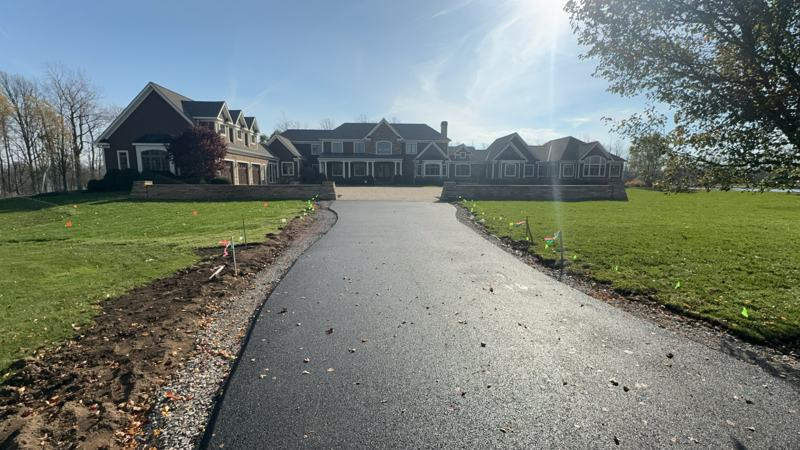
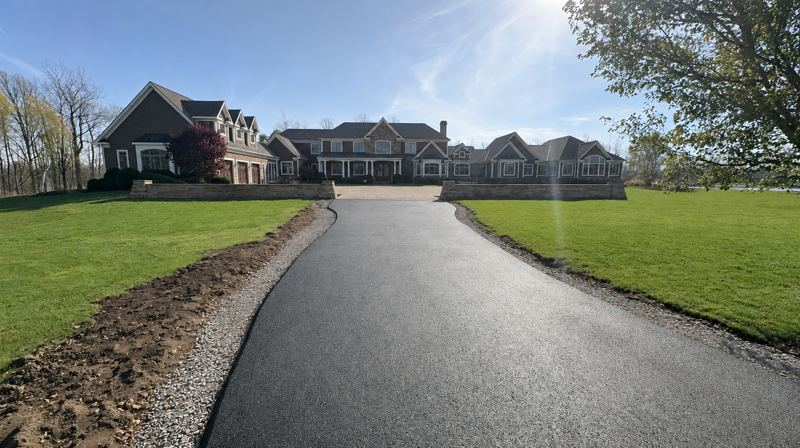
Hero: light cleanup of estate drive photo (stakes, flags, leaves removed)
Claude-Session: https://claude.ai/code/session_018FiD58pTLoVnvZhGJEy8fu

diff --git a/public/index.html b/public/index.html
@@ -106,7 +106,7 @@
     </ul>
   </div>
   <figure class="hero__photo">
-    <img src="/img/work/estate-drive.jpg" alt="Freshly paved blacktop driveway leading up to a large custom estate home" width="1800" height="1013" fetchpriority="high">
+    <img src="/img/work/estate-drive.jpg" alt="Freshly paved blacktop driveway leading up to a large custom estate home" width="1344" height="752" fetchpriority="high">
     <div class="stamp" aria-hidden="true">
       <span class="stamp__top">Est.</span>
       <span class="stamp__yr">1968</span>
